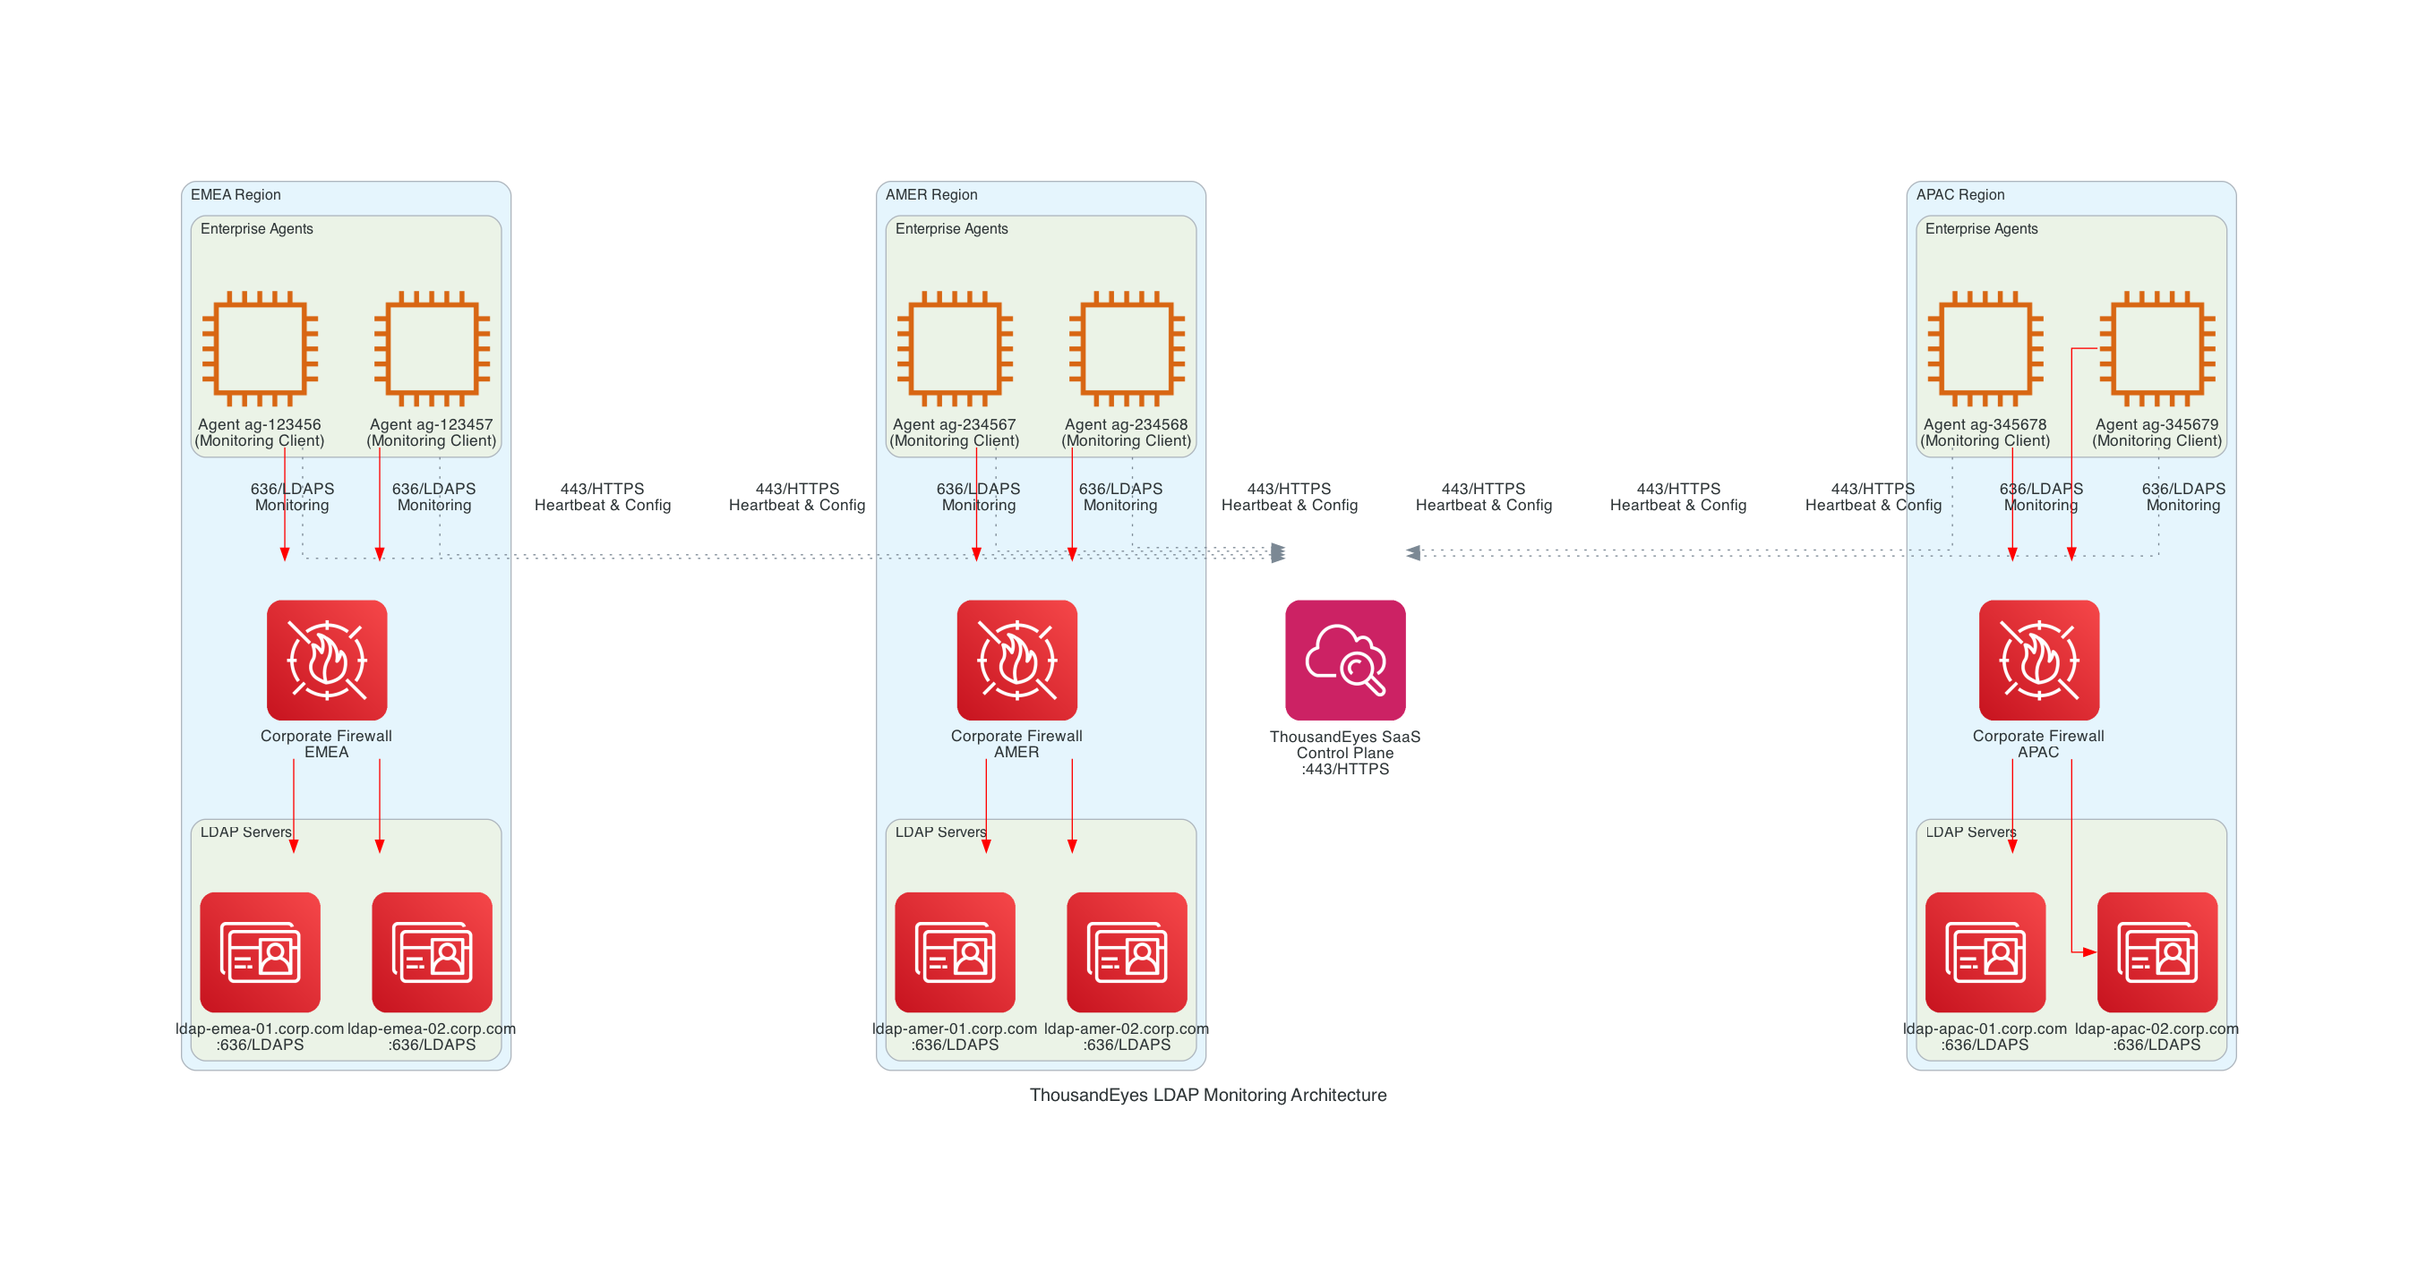
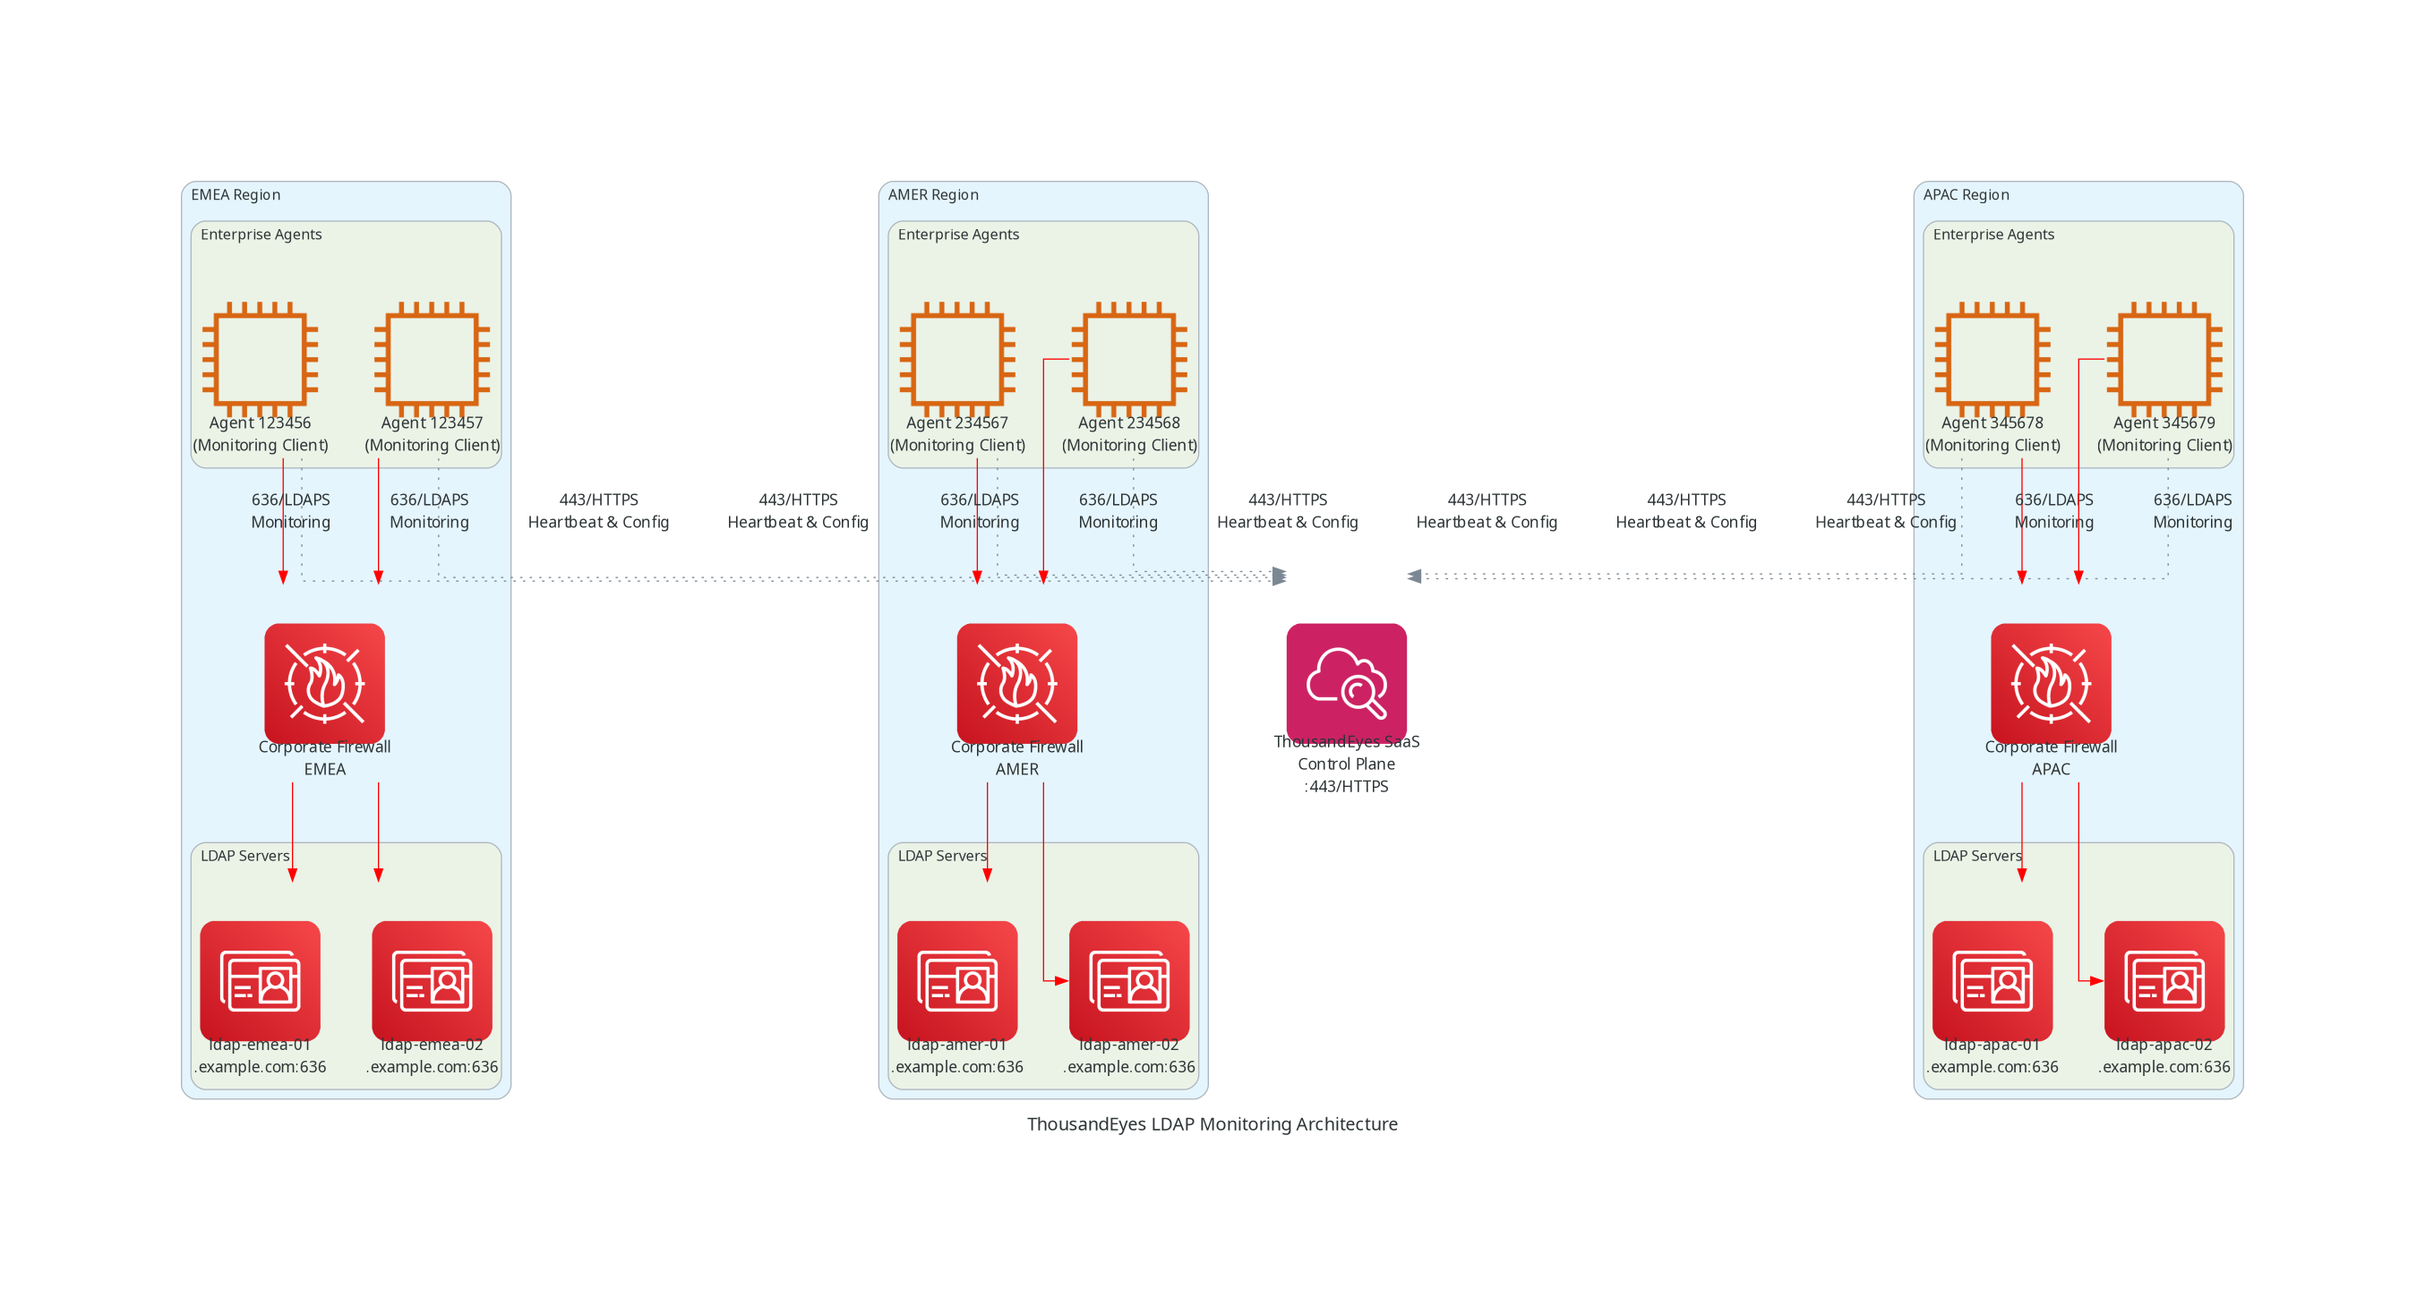
Correct the design document against the Terraform and the script
- Section 6: terraform/ is a root configuration, not
  ./modules/thousandeyes-ldap. The example uses its real variables
  (ldap_servers, agent_ids, credential_ids, alert_email_recipients) and
  te_api_token, not te_token, account_group_id or a PagerDuty key.
- Section 5: real test settings and alert rules (2 of 5 rounds, failure
  and marker-duration expressions, email only); "4.2 Secure Credentials"
  renumbered 5.2; the credential-retrieval setting.
- One agent list per Terraform configuration: regional isolation means
  one apply per region.
- Detection time follows from the defaults: up to 2 intervals, not
  under 5 minutes.
- Validation lists the Root DSE checks and the certificate expiry
  warning; latency comes from marker alert rules.
- CI and state backup describe what exists.
- corp.com becomes example.com, here and in the architecture diagram
  (host labels split over two lines to fit); agent IDs are numeric, as
  in ThousandEyes.

diff --git a/docs/diagrams/ldap_monitoring.py b/docs/diagrams/ldap_monitoring.py
@@ -36,41 +36,41 @@ def create_architecture():
         # Regional Clusters
         with Cluster("EMEA Region"):
             with Cluster("Enterprise Agents"):
-                emea_agent1 = Client("Agent ag-123456\n(Monitoring Client)")
-                emea_agent2 = Client("Agent ag-123457\n(Monitoring Client)")
+                emea_agent1 = Client("Agent 123456\n(Monitoring Client)")
+                emea_agent2 = Client("Agent 123457\n(Monitoring Client)")
                 emea_agents = [emea_agent1, emea_agent2]
             
             emea_firewall = Firewall("Corporate Firewall\nEMEA")
             
             with Cluster("LDAP Servers"):
-                emea_ldap1 = LDAPService("ldap-emea-01.corp.com\n:636/LDAPS")
-                emea_ldap2 = LDAPService("ldap-emea-02.corp.com\n:636/LDAPS")
+                emea_ldap1 = LDAPService("ldap-emea-01\n.example.com:636")
+                emea_ldap2 = LDAPService("ldap-emea-02\n.example.com:636")
                 emea_ldaps = [emea_ldap1, emea_ldap2]
         
         with Cluster("AMER Region"):
             with Cluster("Enterprise Agents"):
-                amer_agent1 = Client("Agent ag-234567\n(Monitoring Client)")
-                amer_agent2 = Client("Agent ag-234568\n(Monitoring Client)")
+                amer_agent1 = Client("Agent 234567\n(Monitoring Client)")
+                amer_agent2 = Client("Agent 234568\n(Monitoring Client)")
                 amer_agents = [amer_agent1, amer_agent2]
             
             amer_firewall = Firewall("Corporate Firewall\nAMER")
             
             with Cluster("LDAP Servers"):
-                amer_ldap1 = LDAPService("ldap-amer-01.corp.com\n:636/LDAPS")
-                amer_ldap2 = LDAPService("ldap-amer-02.corp.com\n:636/LDAPS")
+                amer_ldap1 = LDAPService("ldap-amer-01\n.example.com:636")
+                amer_ldap2 = LDAPService("ldap-amer-02\n.example.com:636")
                 amer_ldaps = [amer_ldap1, amer_ldap2]
         
         with Cluster("APAC Region"):
             with Cluster("Enterprise Agents"):
-                apac_agent1 = Client("Agent ag-345678\n(Monitoring Client)")
-                apac_agent2 = Client("Agent ag-345679\n(Monitoring Client)")
+                apac_agent1 = Client("Agent 345678\n(Monitoring Client)")
+                apac_agent2 = Client("Agent 345679\n(Monitoring Client)")
                 apac_agents = [apac_agent1, apac_agent2]
             
             apac_firewall = Firewall("Corporate Firewall\nAPAC")
             
             with Cluster("LDAP Servers"):
-                apac_ldap1 = LDAPService("ldap-apac-01.corp.com\n:636/LDAPS")
-                apac_ldap2 = LDAPService("ldap-apac-02.corp.com\n:636/LDAPS")
+                apac_ldap1 = LDAPService("ldap-apac-01\n.example.com:636")
+                apac_ldap2 = LDAPService("ldap-apac-02\n.example.com:636")
                 apac_ldaps = [apac_ldap1, apac_ldap2]
         
         # Control plane connections

diff --git a/docs/DESIGN_DOCUMENT.md b/docs/DESIGN_DOCUMENT.md
@@ -10,13 +10,13 @@ This document outlines the implementation of enterprise-grade LDAP monitoring us
 
 - **ThousandEyes SaaS Control Plane**: Centralized orchestration and data collection
 - **Enterprise Agents**: Distributed synthetic monitoring agents in each region
-- **LDAP Servers**: Target authentication servers (port 636/LDAPS)
+- **LDAP Servers**: Target authentication servers (LDAPS, port 636 by default; the test URL may name another port)
 - **Firewall Infrastructure**: Network security boundaries requiring rule updates
 
 ### 1.2 Architecture Principles
 
 - **Regional Isolation**: Agents monitor only LDAP servers within their region
-- **Secure by Design**: All communications use TLS encryption (443 for control, 636 for LDAP)
+- **Secure by Design**: All communications use TLS encryption (443 for control, 636 for LDAP). The script refuses a bind over plain LDAP unless the `ldapAllowCleartext` credential is set
 - **Least Privilege**: Minimal credential scope with dedicated monitoring accounts
 - **High Availability**: Agent clusters provide redundancy and failover
 
@@ -46,7 +46,7 @@ Purpose: Synthetic monitoring probes
 
 - **Stateful Connections**: All rules are outbound-only with established return traffic
 - **Regional Segmentation**: Agents access only same-region LDAP servers
-- **TLS Enforcement**: TLS 1.2 minimum (1.3 preferred) for all connections
+- **TLS Enforcement**: TLS 1.2 minimum (1.3 when the server supports it) for all connections
 
 ## 3. Agent-to-Server Mapping
 
@@ -54,9 +54,11 @@ Purpose: Synthetic monitoring probes
 
 | Region | Agent IDs | Target LDAP Servers |
 |--------|-----------|-------------------|
-| EMEA | `ag-123456`, `ag-123457` | `ldap-emea-01.corp.com`, `ldap-emea-02.corp.com` |
-| AMER | `ag-234567`, `ag-234568` | `ldap-amer-01.corp.com`, `ldap-amer-02.corp.com` |
-| APAC | `ag-345678`, `ag-345679` | `ldap-apac-01.corp.com`, `ldap-apac-02.corp.com` |
+| EMEA | `123456`, `123457` | `ldap-emea-01.example.com`, `ldap-emea-02.example.com` |
+| AMER | `234567`, `234568` | `ldap-amer-01.example.com`, `ldap-amer-02.example.com` |
+| APAC | `345678`, `345679` | `ldap-apac-01.example.com`, `ldap-apac-02.example.com` |
+
+The Terraform in `terraform/` assigns one list of agents (`agent_ids`) to every test it creates. To keep agents in their region, apply it once per region, each with that region's servers and agents (separate state or workspace).
 
 ### 3.2 Isolation Benefits
 
@@ -76,20 +78,23 @@ This monitoring solution provides multi-layered validation across all critical L
 - **Firewall Rule Compliance**: Proves egress rules are properly configured
 
 #### Security Layer Validation  
-- **LDAPS Certificate Validation**: Verifies certificate chain, expiration, and CA trust
+- **LDAPS Certificate Validation**: Verifies certificate chain, expiration, and CA trust (system CAs, or the `ldapCaBase64` credential for a private CA)
+- **Certificate Expiry Warning**: Logs a warning when the certificate expires within `ldapCertWarnDays` (default 30 days); the run still passes
 - **TLS Protocol Compliance**: Enforces TLS 1.2+ encryption standards
 - **Hostname Verification**: Ensures certificate matches target FQDN
 
 #### Application Layer Validation
 - **LDAP Service Functionality**: Confirms authentication service is operational via bind operations
-- **Directory Query Capability**: Validates search operations against Root DSE
-- **Protocol Compliance**: Tests LDAPv3 specification adherence
+- **Directory Query Capability**: Validates a base-scope search of the Root DSE, or of a base DN given in the test URL
+- **Protocol Compliance**: Checks that the Root DSE lists LDAPv3 in `supportedLDAPVersion`
+- **Directory Health**: Fails when an Active Directory domain controller reports `isSynchronized: FALSE`, when the server clock (`currentTime`) is more than `ldapMaxClockSkewSeconds` (default 300) from the agent clock, or, when `ldapExpectedNamingContext` is set, when `namingContexts` does not include it
 - **Credential Validation**: Proves monitoring service accounts are functional
 
 #### Performance Monitoring
-- **Connection Latency**: TCP + TLS handshake timing (baseline: <100ms)
-- **Bind Operation Performance**: Authentication response time (threshold: <300ms)
-- **Search Query Performance**: Directory lookup latency (threshold: <300ms)
+Each step is a ThousandEyes marker. The script does not fail a slow run; alert rules on marker durations (`marker_alert_thresholds_ms` in Terraform) do.
+- **Connection Latency**: TCP + TLS handshake timing, marker `ldaps-ssl-handshake` (baseline: <100ms; no alert rule by default)
+- **Bind Operation Performance**: Authentication response time, marker `ldap-bind` (alert threshold: 300ms)
+- **Search Query Performance**: Directory lookup latency, marker `ldap-search` (alert threshold: 300ms)
 - **Total Transaction Time**: End-to-end operation duration for SLA reporting
 
 ### 4.2 Business Impact Metrics
@@ -98,87 +103,84 @@ This monitoring solution provides multi-layered validation across all critical L
 |--------|--------|---------------|
 | Availability SLA | 99.9% | User authentication reliability |
 | Response Time | <300ms | Optimal user experience |
-| Detection Time | <5 minutes | Rapid incident response |
+| Detection Time | Within 2 test intervals (10 minutes at the 300 s default) | Rapid incident response; a shorter interval detects sooner |
 | Regional Coverage | 100% | Global service assurance |
 
 ## 5. ThousandEyes Configuration
 
-### 5.1 Web Transaction Test Template
+### 5.1 Web Transaction Test Settings
 
-```javascript
-// Web Transaction Test Configuration
-{
-  "testType": "web-transaction",
-  "testName": "LDAP Health Check - {REGION}",
-  "interval": 300,
-  "timeout": 30,
-  "browserBot": "chrome-latest",
-  "script": "ldap-monitor.js"
-}
-```
+What Terraform sets on each `thousandeyes_web_transaction` test (`terraform/monitoring.tf`):
 
-### 4.2 Secure Credentials Setup
+| Setting | Value |
+|---------|-------|
+| Test name | `LDAP Check - <server name>` |
+| URL | LDAP URL of the server, e.g. `ldaps://ldap-emea-01.example.com:636/` |
+| Transaction script | `ldap-monitor.js` |
+| Interval | 300 s (`interval`) |
+| Time limit | 30 s (`time_limit`, at most half the interval) |
+| Credentials | `credential_ids` |
+| Console logs | collected |
+| Alert rules | the failure rule, and one latency rule per entry in `marker_alert_thresholds_ms` |
 
-Configure in ThousandEyes dashboard:
-- **`ldapMonUser`**: `cn=monitor,ou=service,dc=corp,dc=com`
+### 5.2 Secure Credentials Setup
+
+Create in the ThousandEyes UI or API (not in Terraform, so the values stay out of state), and attach to the tests:
+- **`ldapMonUser`**: `cn=monitor,ou=service,dc=example,dc=com`
 - **`ldapMonPass`**: Dedicated monitoring account password
+- Optional: `ldapCaBase64` for a private CA, `ldapExpectedNamingContext` for a domain controller, and the others in the [README's credentials table](../README.md#credentials)
+
+Anyone with the **View sensitive data in web transaction scripts** permission can read credential values in the web app and through the API. Enable **Disable global credential retrieval** in the organization's security settings to block that.
 
 ### 5.3 Alert Rule Configuration
 
 ```
-Alert Name: LDAP Service Failure
-Condition: Status = Fail
-Threshold: 3 consecutive rounds
-Severity: Critical
-Notification: PagerDuty + Email
+Alert Name: LDAP Transaction Failure
+Condition: ((txCompletionHasError == true) || (txCompletionTimedOut == true))
+Threshold: 2 failing rounds out of 5
+Notification: Email (alert_email_recipients)
+
+Alert Name: LDAP Slow ldap-bind (300 ms), LDAP Slow ldap-search (300 ms)
+Condition: ((marker[((markerName == "ldap-bind"))]((markerDuration >= 300 ms))))
+Threshold: 2 failing rounds out of 5
+Notification: Email (alert_email_recipients)
 ```
+
+Terraform sets only email notifications and leaves severity at its default. Add PagerDuty in ThousandEyes.
 
 ## 6. Terraform Infrastructure as Code
 
-### 6.1 Module Structure
+### 6.1 Configuration
+
+`terraform/` is a root configuration, not a module. Run it from that directory once per region, with a variable file and a workspace per region (see the agent note in 3.1), for example `terraform workspace select -or-create emea` and then `terraform apply -var-file=emea.tfvars`. It needs Terraform 1.7 or later. The full variable list is in [terraform/README.md](../terraform/README.md).
 
 ```hcl
-# main.tf
-module "ldap_monitoring" {
-  source = "./modules/thousandeyes-ldap"
-  
-  ldap_servers = [
-    {
-      name = "ldap-emea-01.corp.com"
-      region = "emea"
-      agents = ["ag-123456", "ag-123457"]
-    },
-    {
-      name = "ldap-amer-01.corp.com"
-      region = "amer"
-      agents = ["ag-234567", "ag-234568"]
-    }
-  ]
-  
-  account_group_id = var.account_group_id
-  alert_rules = {
-    email_addresses = ["sre-team@corp.com"]
-    pagerduty_key = var.pagerduty_integration_key
-  }
-}
+# terraform/emea.tfvars
+ldap_servers = [
+  { name = "EMEA 01", hostname = "ldap-emea-01.example.com" },
+  { name = "EMEA 02", hostname = "ldap-emea-02.example.com" },
+]
 
-# Provider configuration
-provider "thousandeyes" {
-  token = var.te_token
-}
+agent_ids              = ["123456", "123457"]
+credential_ids         = ["1001", "1002"] # ldapMonUser, ldapMonPass, plus optional credentials
+alert_email_recipients = ["sre-team@example.com"]
+
+# marker_alert_thresholds_ms = { "ldap-bind" = 300, "ldap-search" = 300 }
 ```
+
+The provider block reads the token from `var.te_api_token`.
 
 ### 6.2 Environment Variables
 
 ```bash
-export TE_TOKEN="your-api-bearer-token"
-export TF_VAR_account_group_id="12345"
-export TF_VAR_pagerduty_integration_key="integration-key"
+export TF_VAR_te_api_token="your-api-bearer-token"
 ```
 
 ## 7. Deployment Workflow
 
 ### 7.1 CI/CD Pipeline Stages
+
+The repository's CI (`.github/workflows/ci.yml`) covers the first checks: lint and unit tests on Node 22 and 24, an integration test against 389 Directory Server, and `terraform fmt`, `validate` and `test`. The later stages are the proposed release process.
 
 ```mermaid
 graph LR
@@ -198,7 +200,7 @@ graph LR
 
 ### 7.3 Rollback Strategy
 
-- **Terraform State Backup**: Automated before each deployment
+- **Terraform State Backup**: Before each deployment; `terraform/` configures no backend, so choose a remote backend with versioning
 - **Test Disable**: Immediate via API if issues detected
 - **Firewall Rollback**: Coordinated with network team
 
@@ -220,7 +222,7 @@ graph LR
 - **Audit Trail**: All changes logged with approval workflow
 
 #### Monitoring & Alerting
-- **Real-time Alerts**: PagerDuty integration for critical failures
+- **Real-time Alerts**: PagerDuty integration for critical failures (configured in ThousandEyes; Terraform sets email notifications only)
 - **Trend Analysis**: Historical performance data for capacity planning
 - **Compliance Reporting**: Automated SLA reporting
 
@@ -255,8 +257,8 @@ sequenceDiagram
 ## 10. Success Metrics & KPIs
 
 - **Availability SLA**: 99.9% uptime target
-- **Performance Threshold**: <300ms bind/search operations
-- **Alert Response**: <5 minutes mean time to detection
+- **Performance Threshold**: <300ms bind/search operations (marker alert thresholds)
+- **Alert Response**: Detection within 2 test intervals (10 minutes at the default 300 s interval)
 - **Coverage**: 100% of production LDAP servers monitored
 
 ## 11. Assumptions & Dependencies
